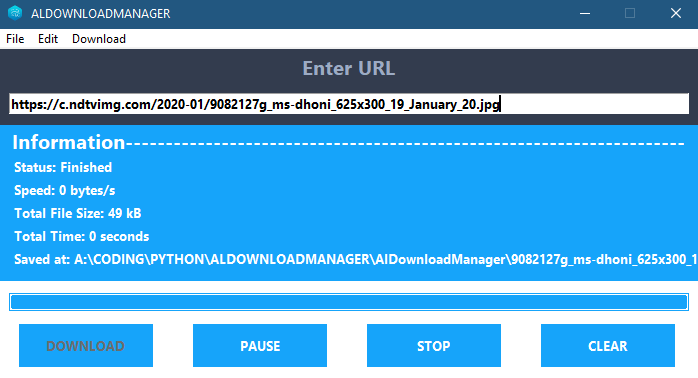
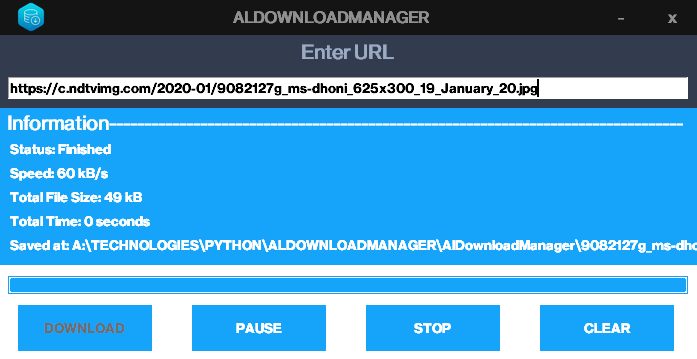
AlDownloadManager

diff --git a/AlDownloadManager.py b/AlDownloadManager.py
@@ -7,6 +7,7 @@ from pySmartDL import SmartDL
 import threading
 import os
 import pyttsx3
+from PIL import ImageTk, Image
 import sys
 
 cwd = os.path.dirname(os.path.realpath(__file__))
@@ -15,7 +16,7 @@ class AlDownloadManager():
     
     def __init__(self):
         root = Tk(className = " ALDOWNLOADMANAGER ")
-        root.geometry("700x350+1200+645")
+        root.geometry("700x360+1200+635")
         root.resizable(0,0)
         root.iconbitmap(os.path.join(cwd+'\\UI\\icons', 'aldownloadmanager.ico'))
         root.config(bg="#ffffff")
@@ -28,11 +29,26 @@ class AlDownloadManager():
         self.destinationMessage = StringVar()
         self.sizeMessage = StringVar()
         self.timeMessage = StringVar()
-        textHighlightFont = font.Font(family='Segoe UI', size=15, weight='bold')
-        appHighlightFont = font.Font(family='Segoe UI', size=12, weight='bold')
-        textFont = font.Font(family='Segoe UI', size=10, weight='bold')
+        textHighlightFont = font.Font(family='OnePlus Sans Display', size=15, weight='bold')
+        appHighlightFont = font.Font(family='OnePlus Sans Display', size=12, weight='bold')
+        textFont = font.Font(family='OnePlus Sans Text', size=10, weight='bold')
         self.destination = os.path.join(cwd,'AlDownloadManager')
+        root.overrideredirect(1)
         
+        def callback(event):
+            root.geometry("700x360+1200+635")
+
+        def showScreen(event):
+            root.deiconify()
+            root.overrideredirect(1)
+
+        def screenAppear(event):
+            root.overrideredirect(1)
+
+        def hideScreen():
+            root.overrideredirect(0)
+            root.iconify()
+
         def speak(audio):
             engine = pyttsx3.init('sapi5')
             voices = engine.getProperty('voices')
@@ -180,33 +196,30 @@ class AlDownloadManager():
             else:
                 downloadButton.flash()
 
-        appMenu = Menu(root)
-        root.config(menu=appMenu)
-        
-        menuFile = Menu(appMenu, tearoff=False, background='#333c4e', foreground='#515d70', activebackground='#16a4fa', activeforeground='white', font=appHighlightFont)
-        appMenu.add_cascade(label="File", menu=menuFile)
-
-        menuEdit = Menu(appMenu, tearoff=False, background='#333c4e', foreground='#515d70', activebackground='#16a4fa', activeforeground='white', font=appHighlightFont)
-        appMenu.add_cascade(label="Edit", menu=menuEdit)
-
-        menuDownload = Menu(appMenu, tearoff=False, background='#333c4e', foreground='#515d70', activebackground='#16a4fa', activeforeground='white', font=appHighlightFont)
-        appMenu.add_cascade(label="Download", menu=menuDownload)
-
-        menuFile.add_command(label="Clear", command=clearReset)
-        menuFile.add_command(label="Exit", command=root.destroy)
-        
-        menuEdit.add_command(label="Cut", command=lambda: cut(entryLink.get()))
-        menuEdit.add_command(label="Copy", command=lambda: copy(entryLink.get()))
-        menuEdit.add_command(label="Paste", command=lambda: paste(entryLink.get()))
-        menuEdit.add_command(label="Paste & Download", command=lambda: pasteDownload(entryLink.get()))
-        
-        menuDownload.add_command(label="Stop", command=lambda: terminate(self.downloadObject))
-        menuDownload.add_command(label="Pause/Resume", command=lambda: pauseResume(self.downloadObject))
+        titleBar = Frame(root, bg='#141414', relief=SUNKEN, bd=0)
+        icon = Image.open(os.path.join(cwd+'\\UI\\icons', 'aldownloadmanager.ico'))
+        icon = icon.resize((30,30), Image.ANTIALIAS)
+        icon = ImageTk.PhotoImage(icon)
+        iconLabel = Label(titleBar, image=icon)
+        iconLabel.photo = icon
+        iconLabel.config(bg='#141414')
+        iconLabel.grid(row=0,column=0,sticky="nsew")
+        titleLabel = Label(titleBar, text='ALDOWNLOADMANAGER', fg='#909090', bg='#141414', font=appHighlightFont)
+        titleLabel.grid(row=0,column=1,sticky="nsew")
+        closeButton = Button(titleBar, text="x", bg='#141414', fg="#909090", borderwidth=0, command=root.destroy, font=appHighlightFont)
+        closeButton.grid(row=0,column=3,sticky="nsew")
+        minimizeButton = Button(titleBar, text="-", bg='#141414', fg="#909090", borderwidth=0, command=hideScreen, font=appHighlightFont)
+        minimizeButton.grid(row=0,column=2,sticky="nsew")
+        titleBar.grid_columnconfigure(0,weight=1)
+        titleBar.grid_columnconfigure(1,weight=10)
+        titleBar.grid_columnconfigure(2,weight=1)
+        titleBar.grid_columnconfigure(3,weight=1)
+        titleBar.pack(side=TOP, fill=X)
 
         frameInput = Frame(root, relief=RIDGE, borderwidth=0, bg='#333c4e')
         frameInput.pack(fill=BOTH, expand=1)
         
-        frameStatus = LabelFrame(root, text="  Information----------------------------------------------------------------------", relief=SUNKEN, bg='#16a4fa', borderwidth=0,font=textHighlightFont,fg='white')
+        frameStatus = LabelFrame(root, text="  Information----------------------------------------------------------------------------------", relief=SUNKEN, bg='#16a4fa', borderwidth=0,font=textHighlightFont,fg='white')
         frameStatus.pack(fill=BOTH, expand=1)
         
         frameProgress = Frame(root, relief=GROOVE, borderwidth=0, bg='white')
@@ -246,14 +259,11 @@ class AlDownloadManager():
         clearButton = Button(frameAction, text="CLEAR", command=lambda: clearReset(), width=16, height=2, fg="white",bd=0, bg='#16a4fa', font=textFont)
         clearButton.grid(row=1,column=4,padx=20)
 
-        menuWindow = Menu(root, tearoff=0)
-        menuWindow.add_command(label="Cut", command=lambda: cut(entryLink.get()))
-        menuWindow.add_command(label="Copy", command=lambda: copy(entryLink.get()))
-        menuWindow.add_command(label="Paste", command=lambda: paste(entryLink.get()))
-        menuWindow.add_command(label="Paste & Download", command=lambda: pasteDownload(entryLink.get()))
-        menuWindow.add_separator()
-        menuWindow.add_command(label="Cancel", command=menuWindow.forget)
         entryLink.bind("<Button-3>", doPopup)
+
+        titleBar.bind("<B1-Motion>", callback)
+        titleBar.bind("<Button-3>", showScreen)
+        titleBar.bind("<Map>", screenAppear)
 
         root.mainloop()
         root.quit()
